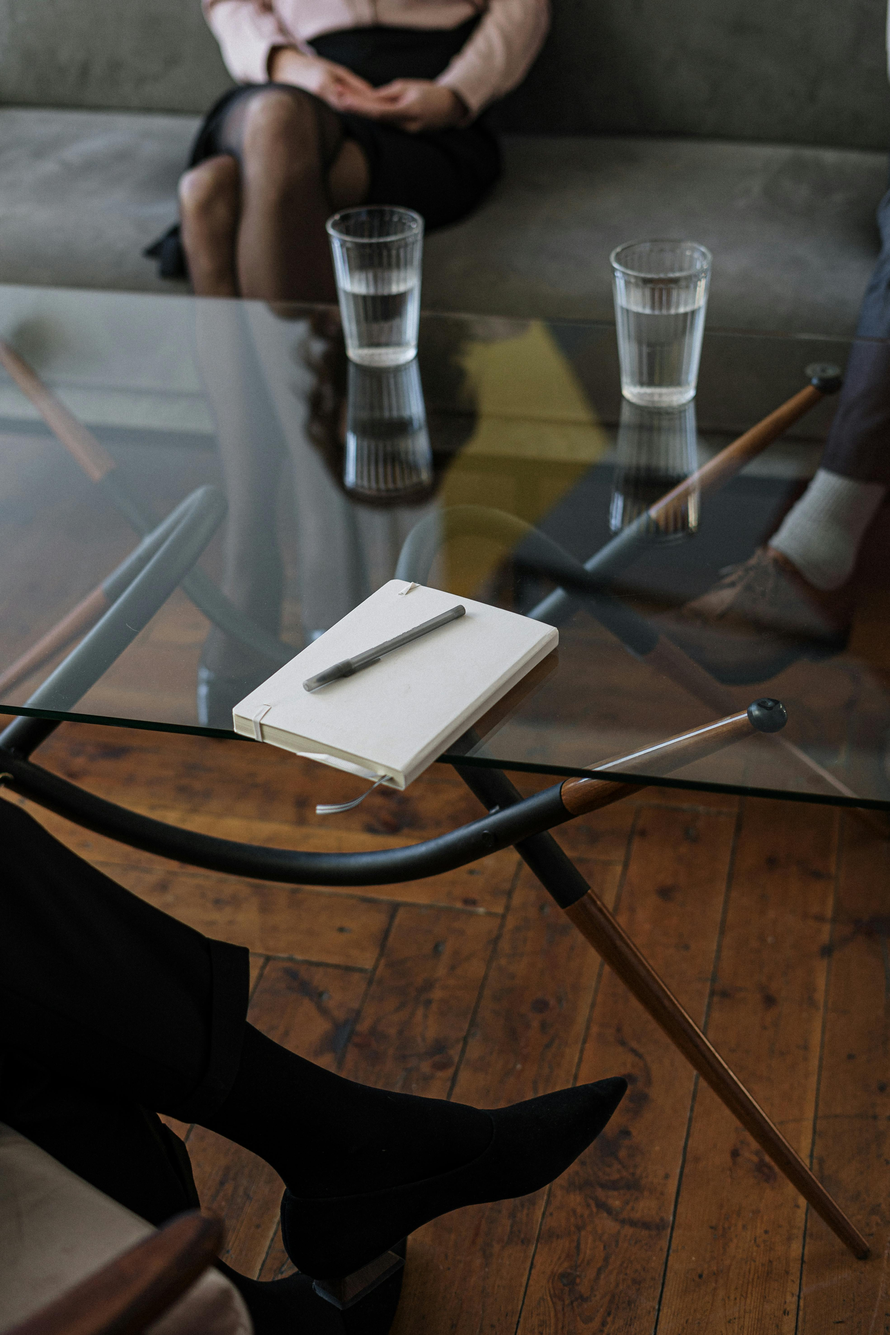
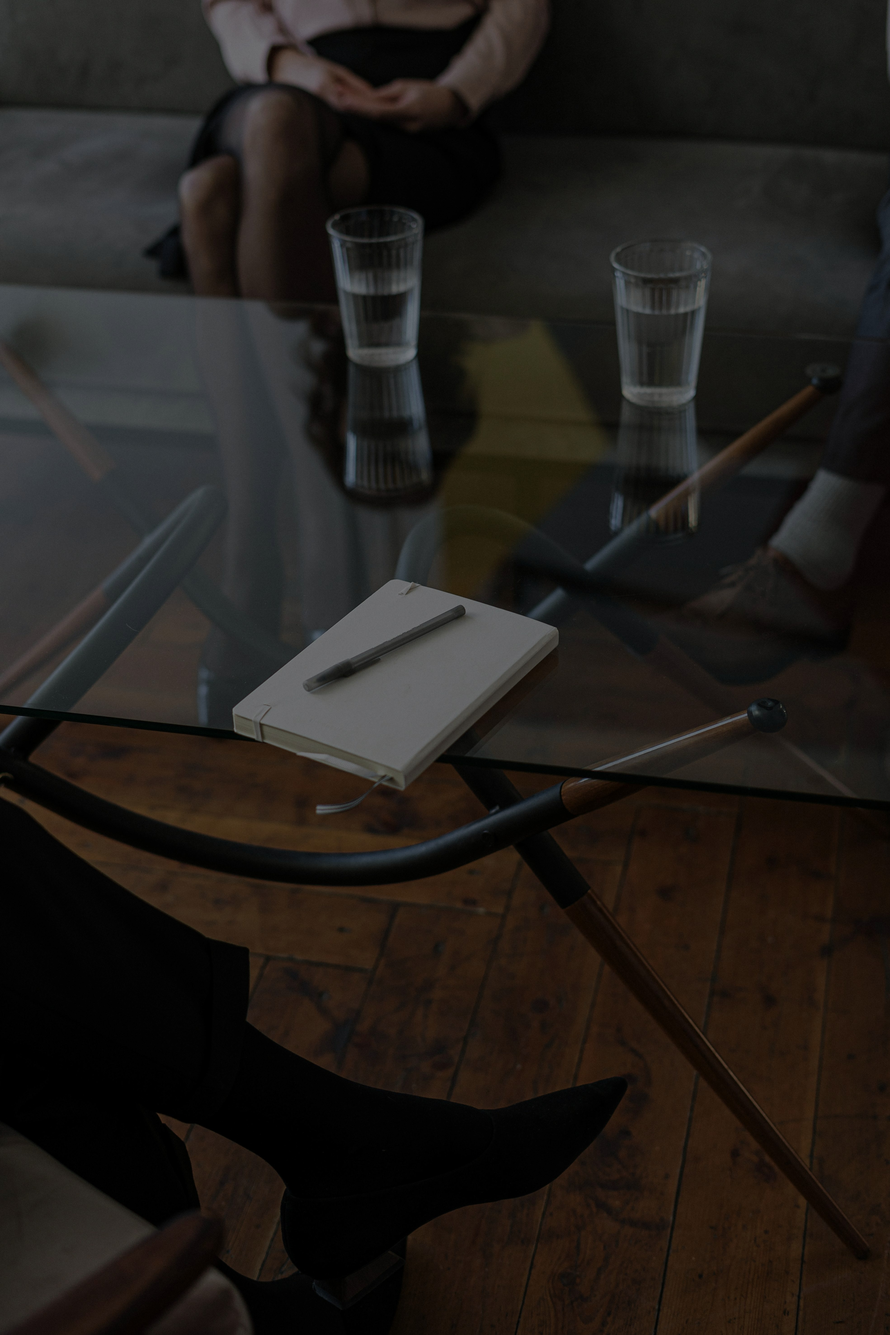
mobile fixes

diff --git a/index.html b/index.html
@@ -13,7 +13,7 @@
       <!--MAIN SECTION-->
       <nav
         id="nav"
-        class="fixed z-30 flex h-20 w-full flex-col items-center justify-center gap-[34px] overflow-hidden border-b border-black border-opacity-20 bg-deepForestGreen p-10 text-center align-middle font-light tracking-wider text-whiteSmoke transition-all md:relative md:h-28 md:flex-row [&>*]:font-body"
+        class="fixed z-30 flex h-20 w-full border flex-col items-center justify-center gap-[34px] overflow-hidden border-b border-black border-opacity-20 bg-deepForestGreen p-10 text-center align-middle font-light tracking-wider text-whiteSmoke transition-all md:relative md:h-28 md:flex-row [&>*]:font-body"
       >
         <button
           id="menu-button"
@@ -27,9 +27,9 @@
           ></ion-icon>
         </button>
         <div
-          class="absolute top-0 z-10 flex w-[75%] flex-col items-center justify-center bg-deepForestGreen pt-4 md:hidden"
+          class="absolute mt-6 top-0 z-10 flex w-[75%] flex-col items-center justify-center bg-deepForestGreen md:hidden"
         >
-          <img class="h-1/2 w-1/2" src="images/MenuTitle.svg" alt="" />
+          <img class="h-2/3 w-2/3" src="images/MenuTitle.svg" alt="" />
         </div>
         <div
           id="nav-items"
@@ -43,14 +43,14 @@
             <img src="images/MenuTitle.svg" alt="" />
           </div>
           <a class="inline-flex flex-col justify-start text-center after:h-0.5 after:w-0 after:bg-whiteSmoke hover:after:w-full after:transition-all" href="#why-do-psychoterapy">PORQUE FAZER TERAPIA</a>
-          <a class="inline-flex flex-col justify-start text-center after:h-0.5 after:w-0 after:bg-whiteSmoke hover:after:w-full after:transition-all" href="#contact">CONTATO</a>
+          <a class="inline-flflex-endex flex-col justify-start text-center after:h-0.5 after:w-0 after:bg-whiteSmoke hover:after:w-full after:transition-all" href="#contact">CONTATO</a>
         </div>
       </nav>
       <div
         class="bg-hero flex flex-1 justify-center bg-cover bg-center md:bg-none"
       >
-        <div
-          class="md:align-center relative mt-36 flex w-3/4 max-w-4xl flex-col-reverse justify-end bg-cover md:my-12 md:w-2/3 md:flex-row md:items-center md:justify-normal lg:max-w-5xl"
+        <div 
+          class=" md:align-center relative flex w-3/4 max-w-4xl flex-col-reverse justify-center bg-cover md:my-12 md:w-2/3 md:flex-row md:items-center md:justify-normal lg:max-w-5xl"
         >
           <img
             src="images/orchid.svg"
@@ -58,10 +58,10 @@
             class="absolute left-[-16rem] top-[-7rem] hidden -rotate-[55deg] 2xl:flex 2xl:h-[32rem]"
           />
           <div
-            class="z-[3] flex flex-col items-center justify-center gap-8 bg-goldenSand p-8 md:absolute md:w-[450px] md:px-12 md:py-16 lg:w-[550px] 2xl:h-96"
+            class="z-[3] flex flex-col items-center justify-center gap-8 bg-none md:bg-goldenSand p-8 md:absolute md:w-[450px] md:px-12 md:py-16 lg:w-[550px] 2xl:h-96"
           >
             <p
-              class="text-center font-title text-xl uppercase tracking-wider text-whiteSmoke lg:text-2xl"
+              class="brightness-100 text-center font-title text-xl uppercase tracking-wider text-whiteSmoke lg:text-2xl"
             >
               A terapia não é uma promessa de que tudo vai ficar bem, mas uma
               possibilidade que as coisas podem ficar melhores
@@ -69,7 +69,7 @@
             <a
               href="https://wa.me/553491029072"
               target="_blank"
-              class="transition-transform hover:scale-105 -bottom-6 right-8 cursor-pointer bg-whiteSmoke px-5 py-3 text-xl tracking-wider md:absolute"
+              class="transition-transform hover:scale-105 -bottom-6 right-8 cursor-pointer bg-whiteSmoke px-5 py-3 md:text-xl tracking-wider md:absolute"
             >
               ENTRAR EM CONTATO
             </a>
@@ -91,7 +91,7 @@
       </div>
     </section>
     <section id="about"
-      class="before:bg-flowers relative flex min-h-screen w-full items-center justify-center gap-8 before:absolute before:right-0 before:top-0 before:h-full before:w-full before:bg-cover before:bg-fixed before:bg-center before:opacity-10 md:px-28 2xl:px-64"
+      class="before:bg-flowers relative flex min-h-screen w-full items-center justify-center gap-8 before:absolute before:-z-10 before:right-0 before:top-0 before:h-full before:w-full before:bg-cover before:bg-fixed before:bg-center before:opacity-10 md:px-28 2xl:px-64"
     >
       <div class="p-8 md:w-2/3">
         <h1
@@ -104,7 +104,7 @@
             class="bg-casual h-72 w-72 rounded-full bg-cover bg-center"
           ></div>
         </div>
-        <h2 class="my-4 text-center text-2xl md:text-start">
+        <h2 class="my-4 text-2xl text-start">
           Olá! Me chamo Amanda Baliana.
         </h2>
         <div>
@@ -174,7 +174,7 @@
           <a
             href="https://wa.me/553491029072"
             target="_blank"
-            class="border border-whiteSmoke px-6 py-3 text-xl"
+            class="border border-whiteSmoke px-6 py-3 text-xl font-medium"
           >
             ENTRAR EM CONTATO
           </a>
@@ -382,7 +382,7 @@
         class="hidden w-auto flex-1 bg-catbed bg-cover bg-center md:block"
       ></div>
     </section>
-    <section id="psychoterapy-benefits" class="relative before:absolute before:bg-center before:bg-fixed before:bg-cover before:opacity-10 before:bg-flowers before:w-full before:h-full before:top-0 before:right-0 flex flex-col items-center justify-center p-8">
+    <section id="psychoterapy-benefits" class="relative before:absolute before:bg-center before:bg-fixed before:bg-cover before:opacity-10 before:bg-flowers before:w-full before:-z-10 before:h-full before:top-0 before:right-0 flex flex-col items-center justify-center p-8">
       <!--doing: BENEFITS-->
       <h1
         class="flex w-full max-w-[1200px] items-center justify-center gap-4 text-center font-title text-4xl uppercase text-deepForestGreen before:inline before:h-1 before:w-full before:bg-deepForestGreen after:inline-block after:h-1 after:w-full after:bg-deepForestGreen md:text-nowrap md:text-4xl lg:text-5xl"

diff --git a/output.css b/output.css
@@ -705,6 +705,10 @@ video {
   top: -7rem;
 }
 
+.top-\[15px\]{
+  top: 15px;
+}
+
 .isolate{
   isolation: isolate;
 }
@@ -834,6 +838,18 @@ video {
 
 .mt-6{
   margin-top: 1.5rem;
+}
+
+.mt-4{
+  margin-top: 1rem;
+}
+
+.mb-12{
+  margin-bottom: 3rem;
+}
+
+.mb-24{
+  margin-bottom: 6rem;
 }
 
 .box-border{
@@ -979,6 +995,10 @@ video {
   height: 100vh;
 }
 
+.h-2\/3{
+  height: 66.666667%;
+}
+
 .min-h-screen{
   min-height: 100vh;
 }
@@ -1029,6 +1049,10 @@ video {
 
 .w-full{
   width: 100%;
+}
+
+.w-2\/3{
+  width: 66.666667%;
 }
 
 .max-w-4xl{
@@ -2108,6 +2132,10 @@ video {
   background-image: url('images/catbed.jpeg');
 }
 
+.bg-none{
+  background-image: none;
+}
+
 .decoration-slice{
   -webkit-box-decoration-break: slice;
           box-decoration-break: slice;
@@ -2234,6 +2262,10 @@ video {
   padding: 2.5rem;
 }
 
+.p-12{
+  padding: 3rem;
+}
+
 .p-16{
   padding: 4rem;
 }
@@ -2244,10 +2276,6 @@ video {
 
 .p-8{
   padding: 2rem;
-}
-
-.p-12{
-  padding: 3rem;
 }
 
 .px-1{
@@ -2732,6 +2760,16 @@ video {
   filter: var(--tw-blur) var(--tw-brightness) var(--tw-contrast) var(--tw-grayscale) var(--tw-hue-rotate) var(--tw-invert) var(--tw-saturate) var(--tw-sepia) var(--tw-drop-shadow);
 }
 
+.brightness-50{
+  --tw-brightness: brightness(.5);
+  filter: var(--tw-blur) var(--tw-brightness) var(--tw-contrast) var(--tw-grayscale) var(--tw-hue-rotate) var(--tw-invert) var(--tw-saturate) var(--tw-sepia) var(--tw-drop-shadow);
+}
+
+.brightness-100{
+  --tw-brightness: brightness(1);
+  filter: var(--tw-blur) var(--tw-brightness) var(--tw-contrast) var(--tw-grayscale) var(--tw-hue-rotate) var(--tw-invert) var(--tw-saturate) var(--tw-sepia) var(--tw-drop-shadow);
+}
+
 .drop-shadow{
   --tw-drop-shadow: drop-shadow(0 1px 2px rgb(0 0 0 / 0.1)) drop-shadow(0 1px 1px rgb(0 0 0 / 0.06));
   filter: var(--tw-blur) var(--tw-brightness) var(--tw-contrast) var(--tw-grayscale) var(--tw-hue-rotate) var(--tw-invert) var(--tw-saturate) var(--tw-sepia) var(--tw-drop-shadow);
@@ -2957,6 +2995,11 @@ video {
   top: 0px;
 }
 
+.before\:-z-10::before{
+  content: var(--tw-content);
+  z-index: -10;
+}
+
 .before\:-mr-2::before{
   content: var(--tw-content);
   margin-right: -0.5rem;
@@ -3034,29 +3077,24 @@ video {
   display: inline-block;
 }
 
-.after\:h-1::after{
-  content: var(--tw-content);
-  height: 0.25rem;
-}
-
 .after\:h-0\.5::after{
   content: var(--tw-content);
   height: 0.125rem;
 }
 
-.after\:w-full::after{
+.after\:h-1::after{
   content: var(--tw-content);
-  width: 100%;
-}
-
-.after\:w-1::after{
-  content: var(--tw-content);
-  width: 0.25rem;
+  height: 0.25rem;
 }
 
 .after\:w-0::after{
   content: var(--tw-content);
   width: 0px;
+}
+
+.after\:w-full::after{
+  content: var(--tw-content);
+  width: 100%;
 }
 
 .after\:bg-deepForestGreen::after{
@@ -3077,13 +3115,6 @@ video {
   line-height: 2rem;
 }
 
-.after\:transition-transform::after{
-  content: var(--tw-content);
-  transition-property: transform;
-  transition-timing-function: cubic-bezier(0.4, 0, 0.2, 1);
-  transition-duration: 150ms;
-}
-
 .after\:transition-all::after{
   content: var(--tw-content);
   transition-property: all;
@@ -3096,38 +3127,14 @@ video {
   content: var(--tw-content);
 }
 
-.hover\:scale-125:hover{
-  --tw-scale-x: 1.25;
-  --tw-scale-y: 1.25;
-  transform: translate(var(--tw-translate-x), var(--tw-translate-y)) rotate(var(--tw-rotate)) skewX(var(--tw-skew-x)) skewY(var(--tw-skew-y)) scaleX(var(--tw-scale-x)) scaleY(var(--tw-scale-y));
-}
-
 .hover\:scale-105:hover{
   --tw-scale-x: 1.05;
   --tw-scale-y: 1.05;
   transform: translate(var(--tw-translate-x), var(--tw-translate-y)) rotate(var(--tw-rotate)) skewX(var(--tw-skew-x)) skewY(var(--tw-skew-y)) scaleX(var(--tw-scale-x)) scaleY(var(--tw-scale-y));
 }
 
-.hover\:bg-red-400:hover{
-  --tw-bg-opacity: 1;
-  background-color: rgb(248 113 113 / var(--tw-bg-opacity));
-}
-
-.hover\:text-end:hover{
-  text-align: end;
-}
-
 .hover\:font-bold:hover{
   font-weight: 700;
-}
-
-.hover\:lowercase:hover{
-  text-transform: lowercase;
-}
-
-.hover\:before\:w-full:hover::before{
-  content: var(--tw-content);
-  width: 100%;
 }
 
 .before\:hover\:text-center:hover::before{
@@ -3143,12 +3150,6 @@ video {
 .hover\:after\:w-full:hover::after{
   content: var(--tw-content);
   width: 100%;
-}
-
-.hover\:after\:bg-red-500:hover::after{
-  content: var(--tw-content);
-  --tw-bg-opacity: 1;
-  background-color: rgb(239 68 68 / var(--tw-bg-opacity));
 }
 
 .focus\:hover\:text-center:hover:focus{
@@ -3263,6 +3264,11 @@ video {
     border-bottom-width: 2px;
   }
 
+  .md\:bg-goldenSand{
+    --tw-bg-opacity: 1;
+    background-color: rgb(175 154 101 / var(--tw-bg-opacity));
+  }
+
   .md\:bg-none{
     background-image: none;
   }
@@ -3297,6 +3303,11 @@ video {
   .md\:text-4xl{
     font-size: 2.25rem;
     line-height: 2.5rem;
+  }
+
+  .md\:text-xl{
+    font-size: 1.25rem;
+    line-height: 1.75rem;
   }
 
   .md\:opacity-100{
@@ -3366,10 +3377,6 @@ video {
 
   .\32xl\:h-\[32rem\]{
     height: 32rem;
-  }
-
-  .\32xl\:min-h-\[80vh\]{
-    min-height: 80vh;
   }
 
   .\32xl\:w-3\/4{
